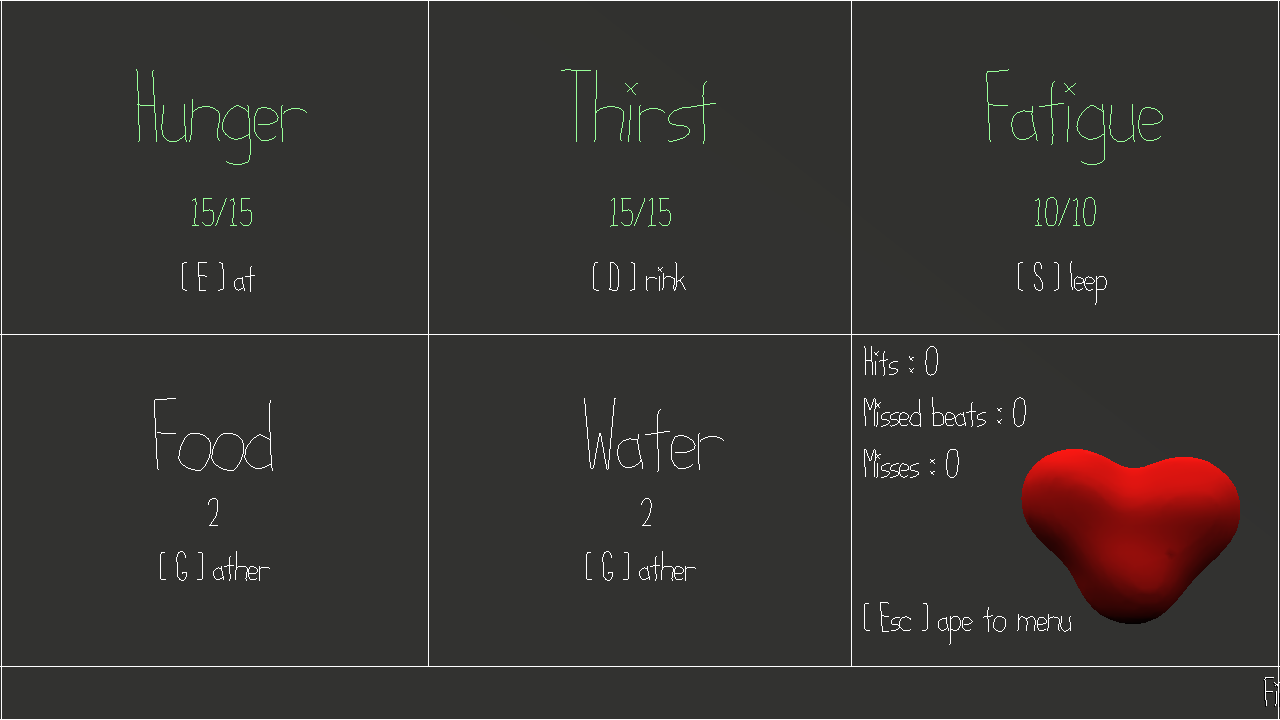
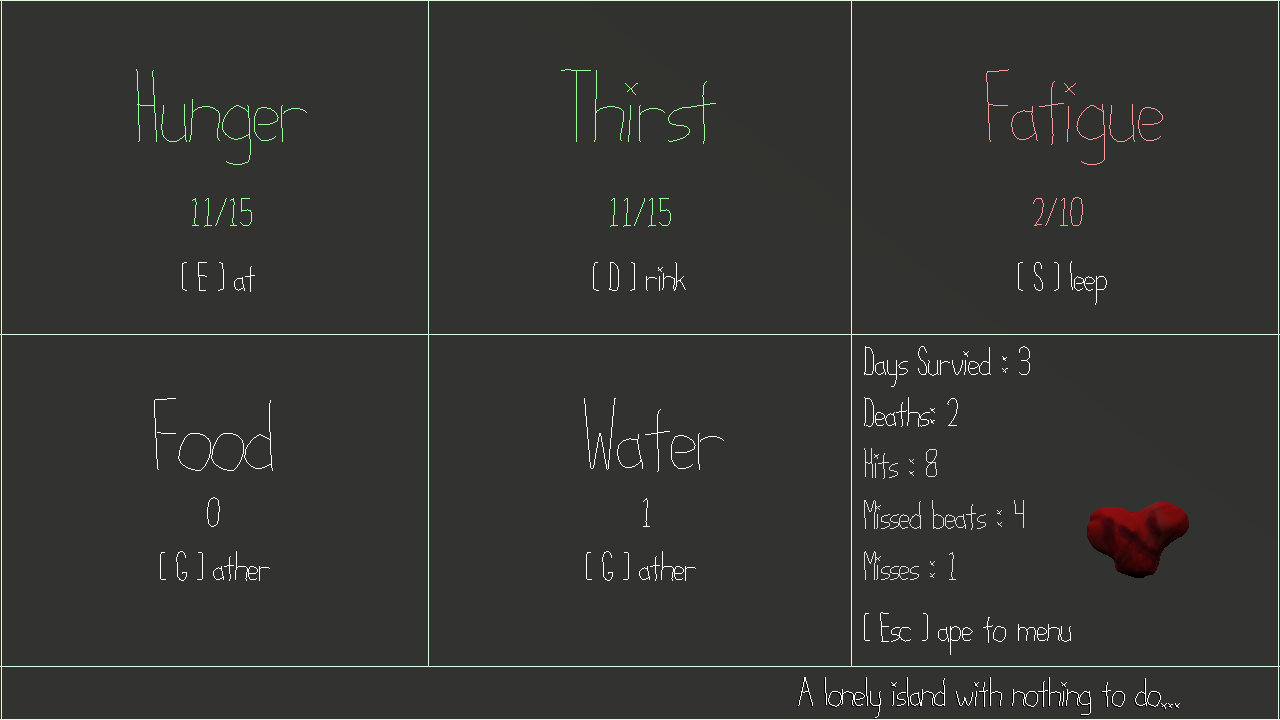
Finish v1.0

diff --git a/PlayMode.cpp b/PlayMode.cpp
@@ -216,27 +216,45 @@ void PlayMode::game_update(float elapsed) {
 
 	// Player missed the last beat so reset the timer
 	if (timer < -timing_tolerance) {
+
 		timer = bpm + timer;
-		missed_beats++;
+
+		if (!sleeping) {
+			missed_beats++;
+			fatigue.update_cur(-1);
+
+			// Flash grid red
+			grid_timer = grid_flash_duration;
+			grid_state = negative;
+		}
+		else {
+			hits++;
+			fatigue.update_cur(1);
+		}
 
 		hunger.update_cur(-1);
 		thirst.update_cur(-1);
-		fatigue.update_cur(-1);
-
-		// Flash grid red
-		grid_timer = grid_flash_duration;
-		grid_state = negative;
 	}
 
 	// Check for on-beat input
-	if (g.downs == 1 || e.downs == 1 || d.downs == 1) {
+	if (g.downs == 1 || e.downs == 1 || d.downs == 1 || s.downs == 1) {
 		// input on time
 		if (timer >= -timing_tolerance && timer <= timing_tolerance + elapsed) {
+			
+			// Any key press wakes player up
+			if (sleeping) {
+				sleeping = false;
+				music_loop->set_volume(1.0f);
+			}
+
 			timer = bpm + timer; // reset timer and account for error within tolerance window
 			hits++;
 			// Flash grid green
 			grid_timer = grid_flash_duration;
 			grid_state = positive;
+
+			// fatigue decreases unless player sleeps
+			fatigue.update_cur(-1);
 
 			// Handle key specific logic
 			// Gather
@@ -267,6 +285,11 @@ void PlayMode::game_update(float elapsed) {
 				else {
 					Sound::play(*negative_sfx_sample, 1.5f);
 				}
+			}
+			// Sleep
+			if (s.downs == 1) {
+				sleeping = true;
+				music_loop->set_volume(0.3f);
 			}
 		}
 		// input off-beat
@@ -435,22 +458,32 @@ void PlayMode::game_draw_ui(glm::uvec2 const& drawable_size) {
 		message_offset = 0;
 	}
 
-	// Timing stats text
-	lines.draw_text("Hits : " + std::to_string(hits),
+	
+	lines.draw_text("Days Survied : " + std::to_string((missed_beats + hits) / 4), // total # of measures played
 		glm::vec3(0.35f * aspect, (-H2 * aspect) + 0.1f, 0.0),
 		glm::vec3(H2, 0.0f, 0.0f), glm::vec3(0.0f, H2, 0.0f),
 		glm::u8vec4(0xff, 0xff, 0xff, 0xff));
-	lines.draw_text("Missed beats : " + std::to_string(missed_beats),
+	lines.draw_text("Deaths: " + std::to_string(deaths),
 		glm::vec3(0.35f * aspect, (-2 * H2 * aspect) + 0.1f, 0.0),
 		glm::vec3(H2, 0.0f, 0.0f), glm::vec3(0.0f, H2, 0.0f),
 		glm::u8vec4(0xff, 0xff, 0xff, 0xff));
-	lines.draw_text("Misses : " + std::to_string(misses),
+
+	// Timing stats text
+	lines.draw_text("Hits : " + std::to_string(hits),
 		glm::vec3(0.35f * aspect, (-3 * H2 * aspect) + 0.1f, 0.0),
 		glm::vec3(H2, 0.0f, 0.0f), glm::vec3(0.0f, H2, 0.0f),
-		glm::u8vec4(0xff, 0xff, 0xff, 0xff));
+		glm::u8vec4(0xdd, 0xdd, 0xdd, 0xff));
+	lines.draw_text("Missed beats : " + std::to_string(missed_beats),
+		glm::vec3(0.35f * aspect, (-4 * H2 * aspect) + 0.1f, 0.0),
+		glm::vec3(H2, 0.0f, 0.0f), glm::vec3(0.0f, H2, 0.0f),
+		glm::u8vec4(0xdd, 0xdd, 0xdd, 0xff));
+	lines.draw_text("Misses : " + std::to_string(misses),
+		glm::vec3(0.35f * aspect, (-5 * H2 * aspect) + 0.1f, 0.0),
+		glm::vec3(H2, 0.0f, 0.0f), glm::vec3(0.0f, H2, 0.0f),
+		glm::u8vec4(0xdd, 0xdd, 0xdd, 0xff));
 
 	lines.draw_text("[ Esc ] ape to menu",
-		glm::vec3(0.35f * aspect, (-6 * H2 * aspect) + 0.1f, 0.0),
+		glm::vec3(0.35f * aspect, (-6.2f * H2 * aspect) + 0.1f, 0.0),
 		glm::vec3(H2, 0.0f, 0.0f), glm::vec3(0.0f, H2, 0.0f),
 		glm::u8vec4(0xff, 0xff, 0xff, 0xff));
 
@@ -640,8 +673,8 @@ void PlayMode::initialize_player_stats(bool is_hard_mode) {
 		food.cur = 0;
 		water.max = 10;
 		water.cur = 0;
-		fatigue.max = 10;
-		fatigue.cur = 10;
+		fatigue.max = 15;
+		fatigue.cur = 15;
 		hunger.update_status();
 		thirst.update_status();
 		fatigue.update_status();
@@ -655,8 +688,8 @@ void PlayMode::initialize_player_stats(bool is_hard_mode) {
 		food.cur = 2;
 		water.max = 100;
 		water.cur = 2;
-		fatigue.max = 10;
-		fatigue.cur = 10;
+		fatigue.max = 15;
+		fatigue.cur = 15;
 		hunger.update_status();
 		thirst.update_status();
 		fatigue.update_status();
@@ -698,6 +731,7 @@ void PlayMode::setup_new_round(bool is_hard_mode) {
 
 	reset_heart();
 	
+	sleeping = false;
 	initialize_player_stats(is_hard_mode);
 	game_state = game;
 }
@@ -714,6 +748,8 @@ void PlayMode::setup_menu() {
 }
 
 void PlayMode::to_death_screen() {
+
+	deaths++;
 
 	cur_heart->rotation = heart_base_rotation;
 	cur_heart->scale = glm::vec3(1, 1, 1);

diff --git a/PlayMode.hpp b/PlayMode.hpp
@@ -87,10 +87,15 @@ struct PlayMode : Mode {
 		}
 	} hunger, thirst, food, water, fatigue;
 
+	bool sleeping;
+
 	// Timing stats
 	uint16_t missed_beats;
 	uint16_t hits;
 	uint16_t misses; // Off time clicks
+
+	// Other stats
+	uint16_t deaths = 0;
 	
 	// Camera
 	Scene::Camera *camera = nullptr;
@@ -109,7 +114,8 @@ struct PlayMode : Mode {
 	float message_speed;
 	glm::vec3* message_anchor_out = new glm::vec3();
 	uint8_t cur_message_ind;
-	std::vector<std::string> messages = { "First Message, this is the first message", "Yep, this is the second message", "Woo hoo third message" };
+	std::vector<std::string> messages = { "A lonely island with nothing to do...", "I'm really starting to get hungry", "I swear there's sand in my ears", 
+										  "Will it be foraging today? Or perhaps foraging...", "*glug* *glug *glug*", "..."};
 
 	// Helper Functions
 	StatStatus get_overall_health();

diff --git a/README.md b/README.md
@@ -10,7 +10,7 @@ Screen Shot:
 
 How To Play:
 
-(TODO: describe the controls and (if needed) goals/strategy.)
+
 
 This game was built with [NEST](NEST.md).
 
